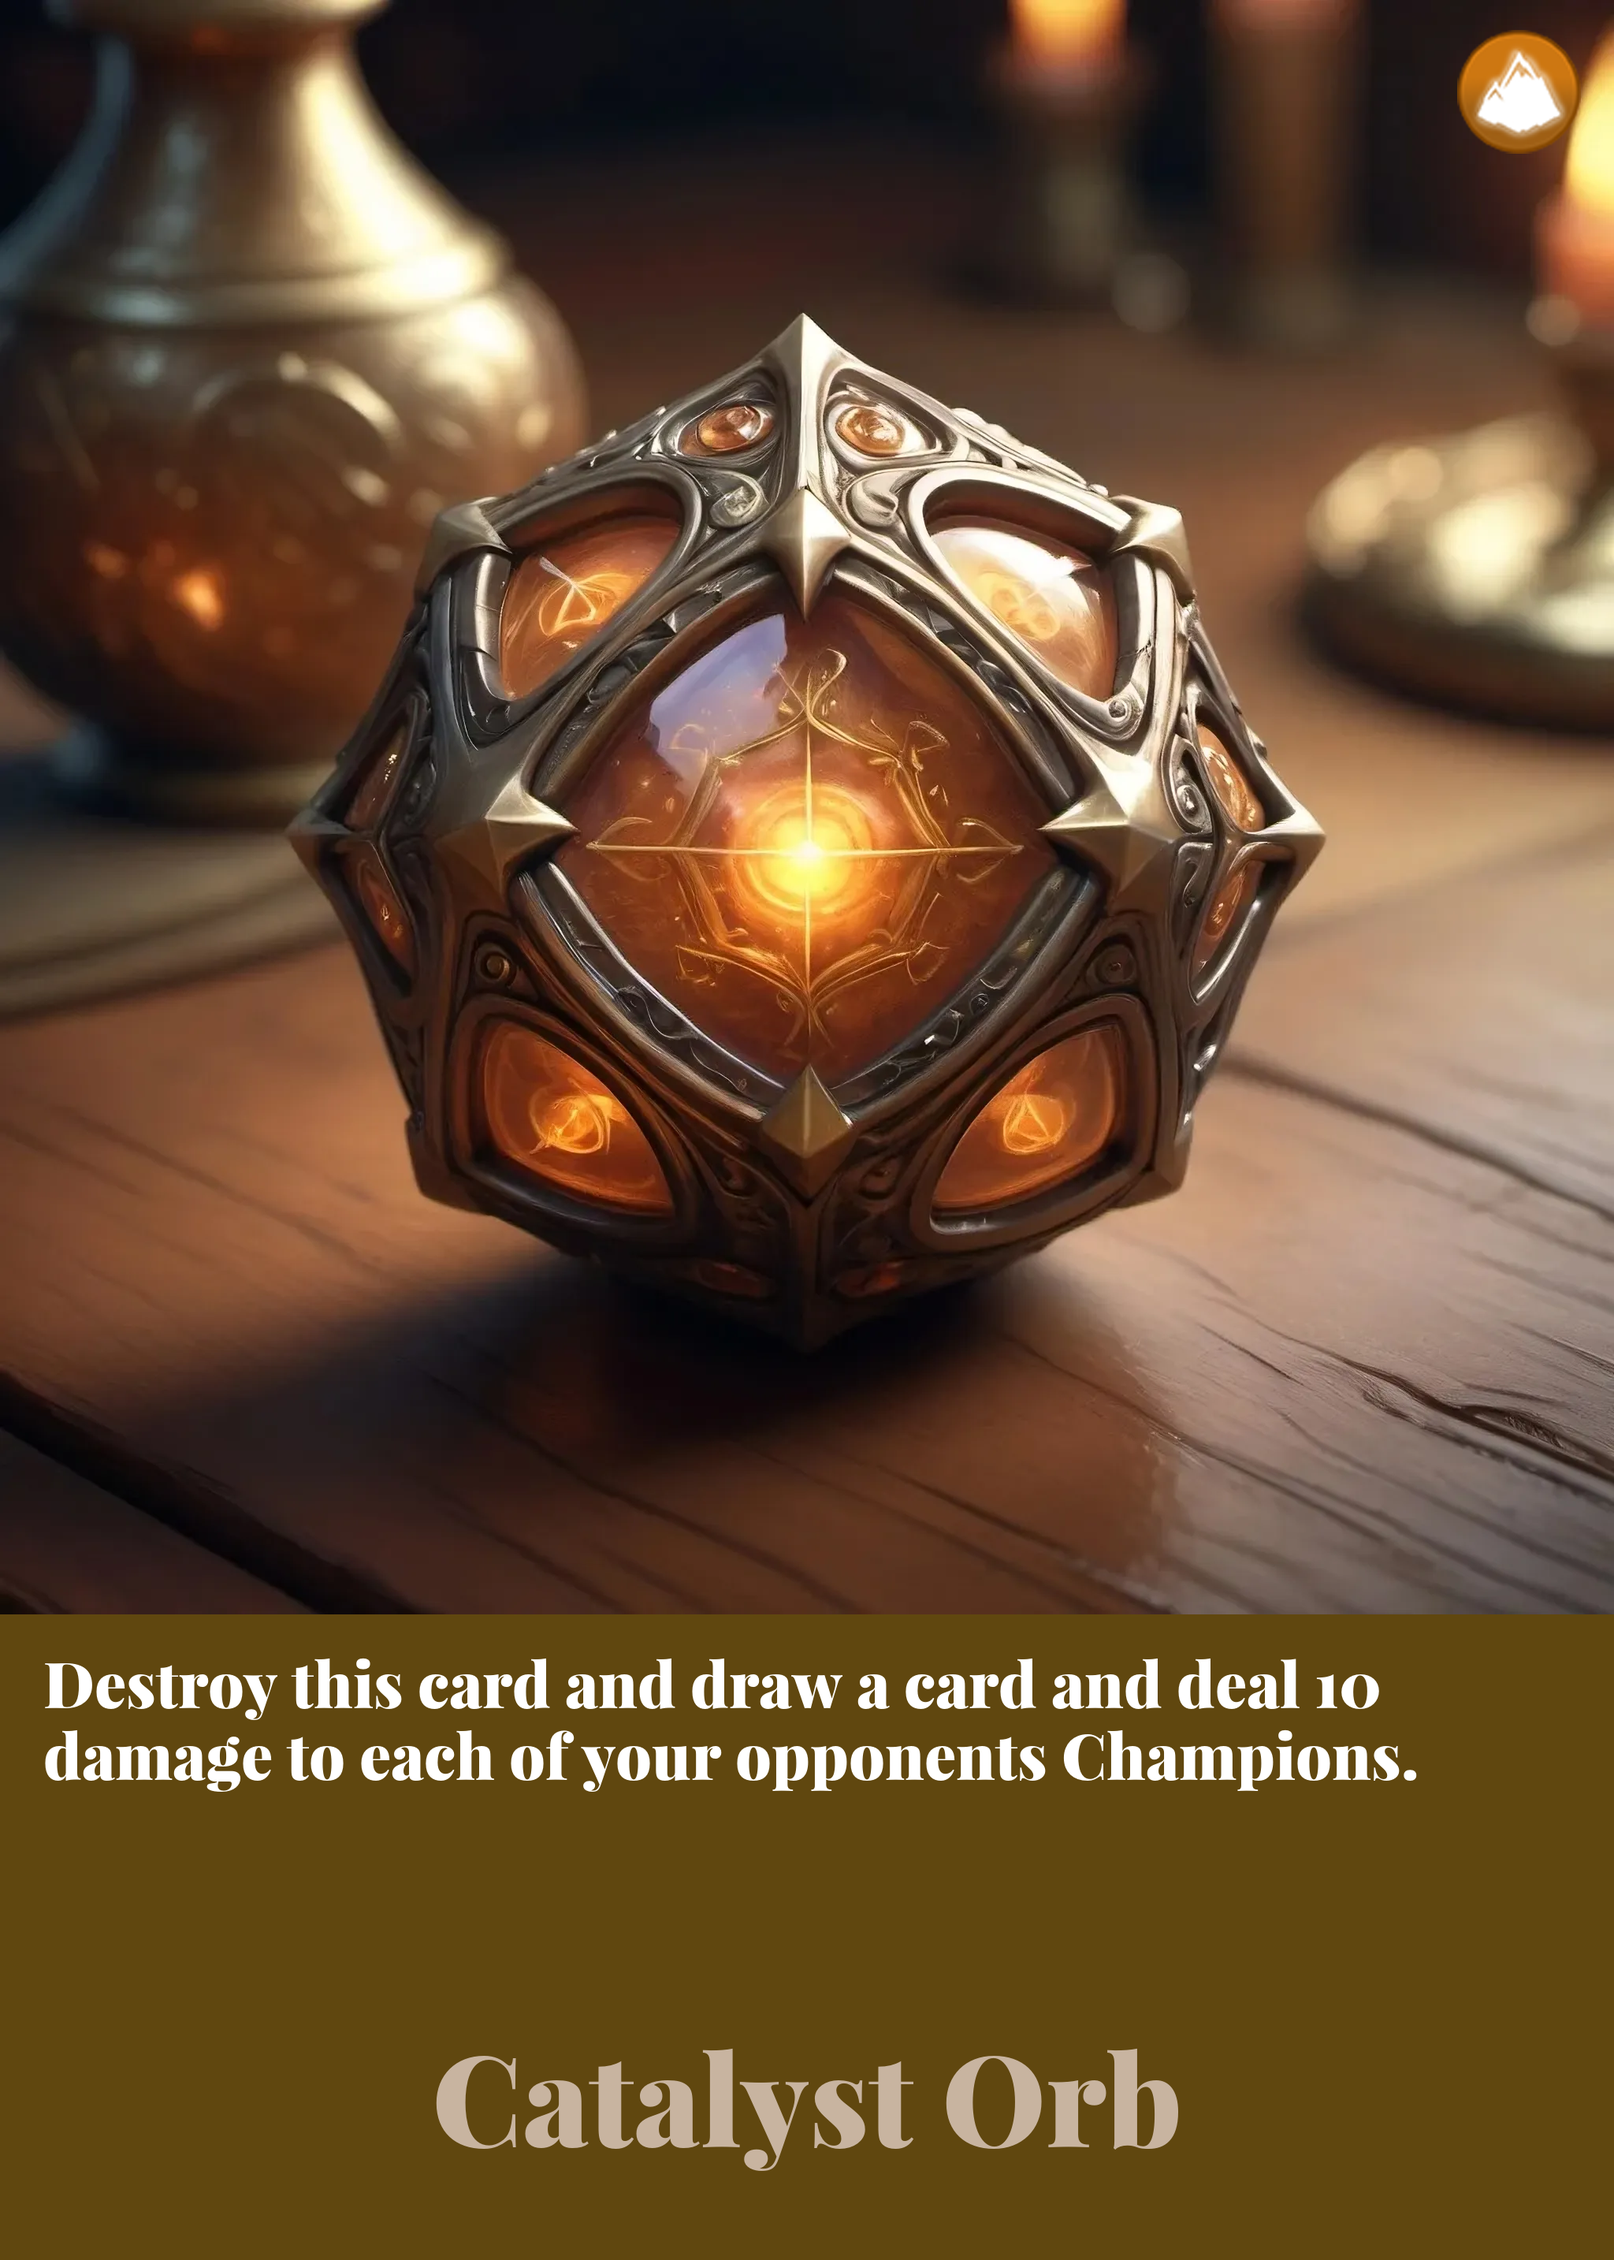
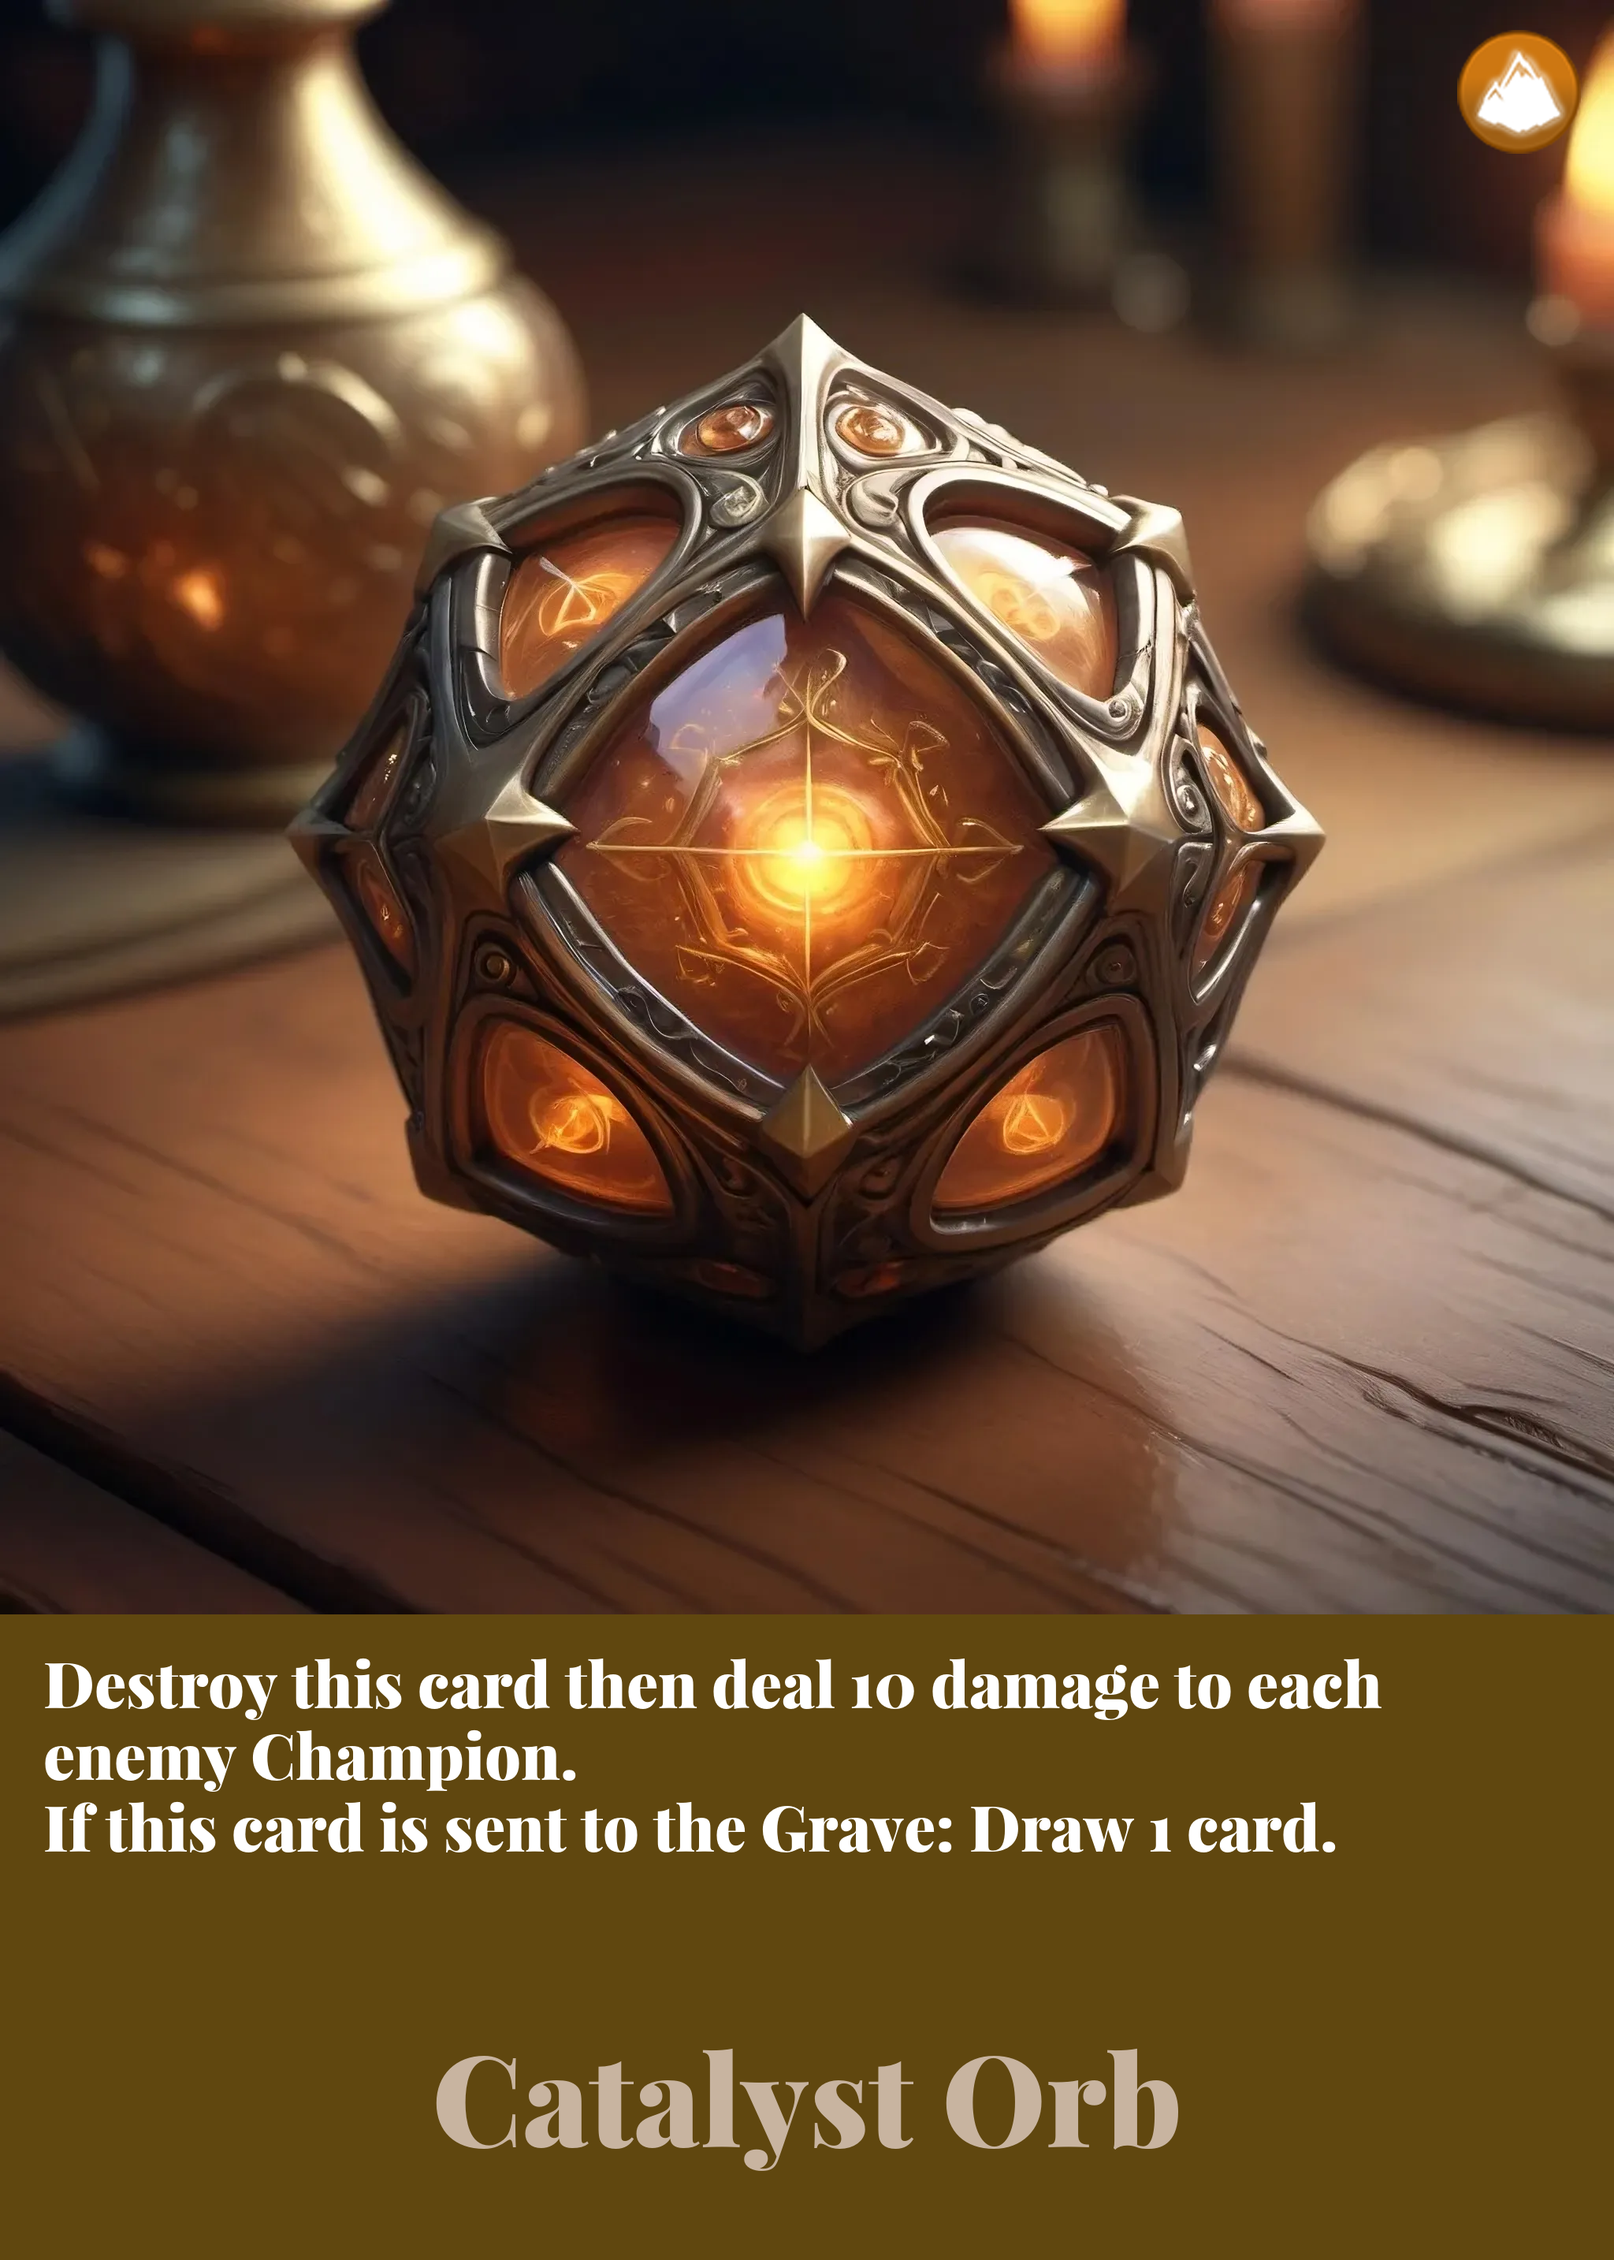
Periods make newlines

Changed region(s): [[0.0312, 0.714, 0.875, 0.8382]]

diff --git a/poem/poem/generateCard_v4.py b/poem/poem/generateCard_v4.py
@@ -144,6 +144,8 @@ def generate_card(dict):
         lines.append(current_line)
     wrapped_text = "".join(lines)
 
+    # TODO: Add logic that doesn't add newlines or shrinks description text if the text is too long to fit in the box.
+
     name_x = (card_width - name_width) / 2
     health_x = (card_width - health_width) / 2
     name_obj.text((name_x, name_y), dict["card_name"], font=fnt1, fill=font_color_name)
